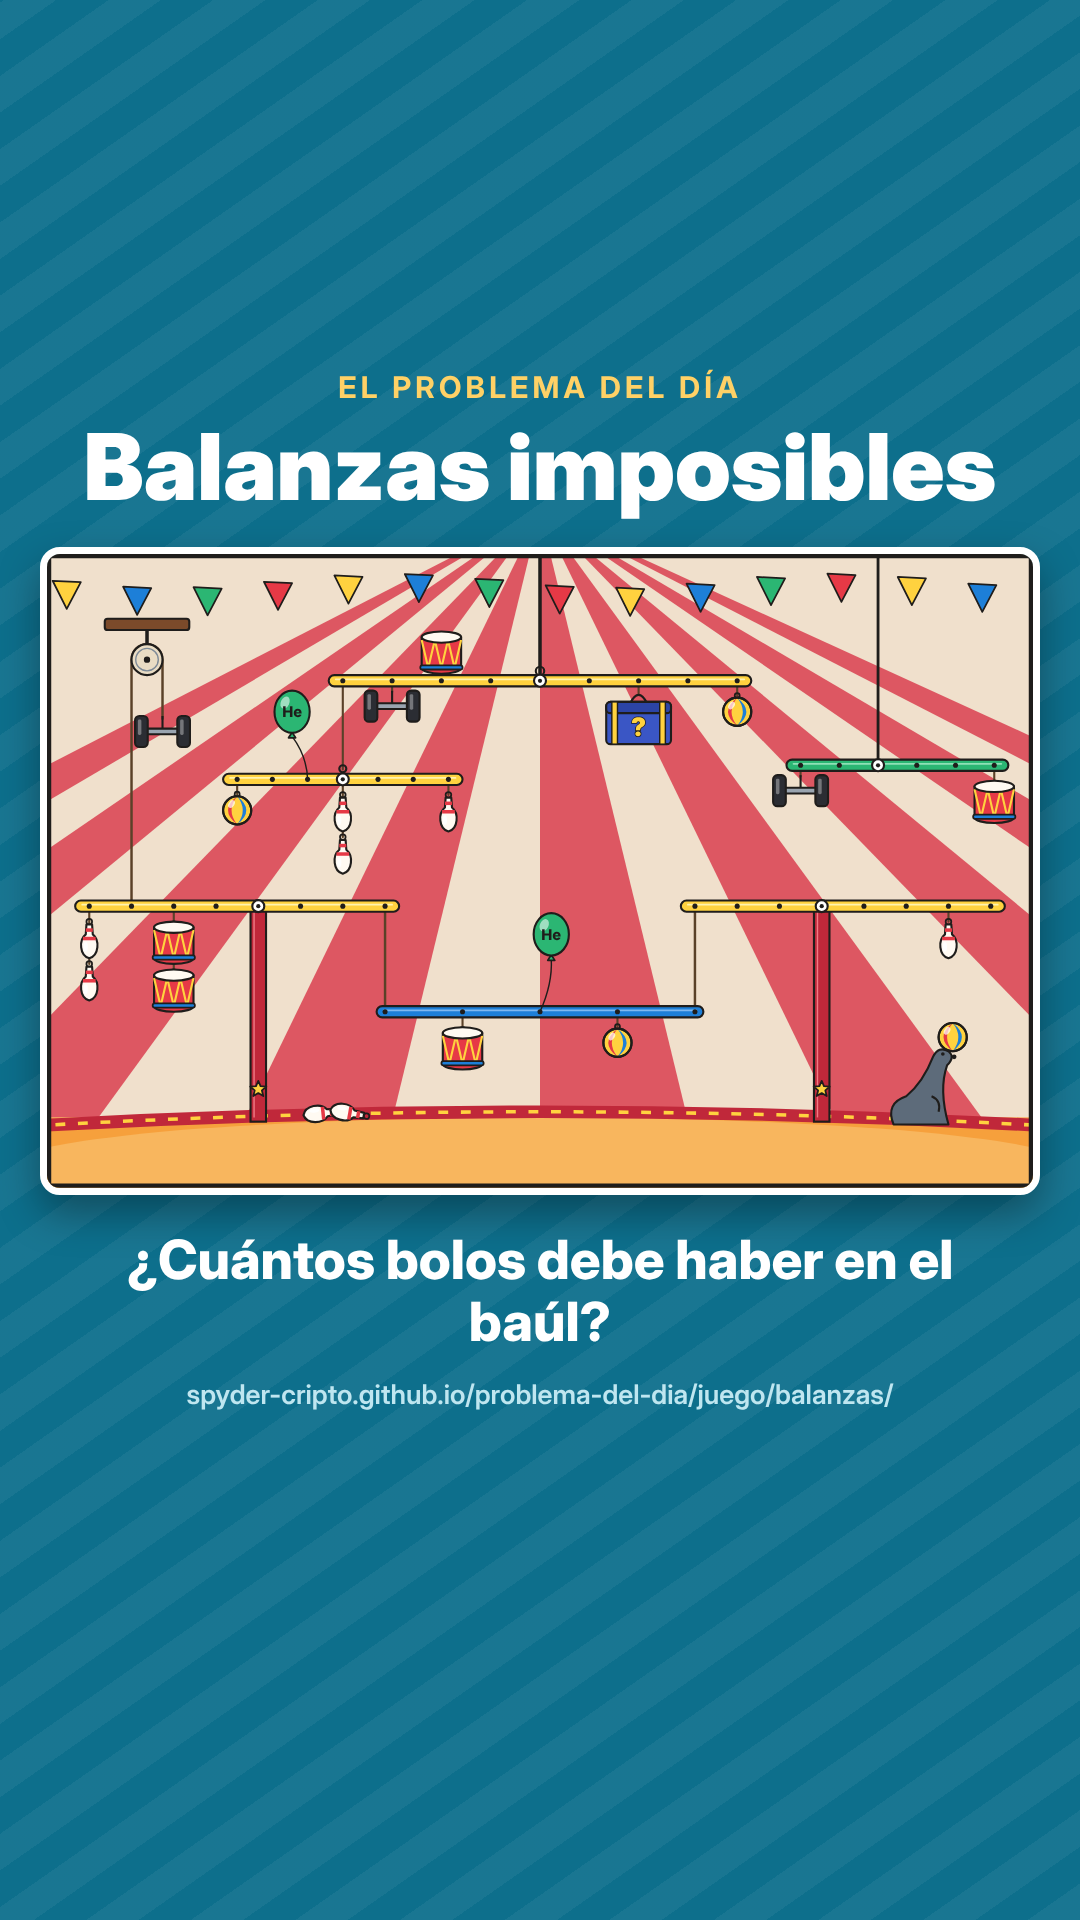
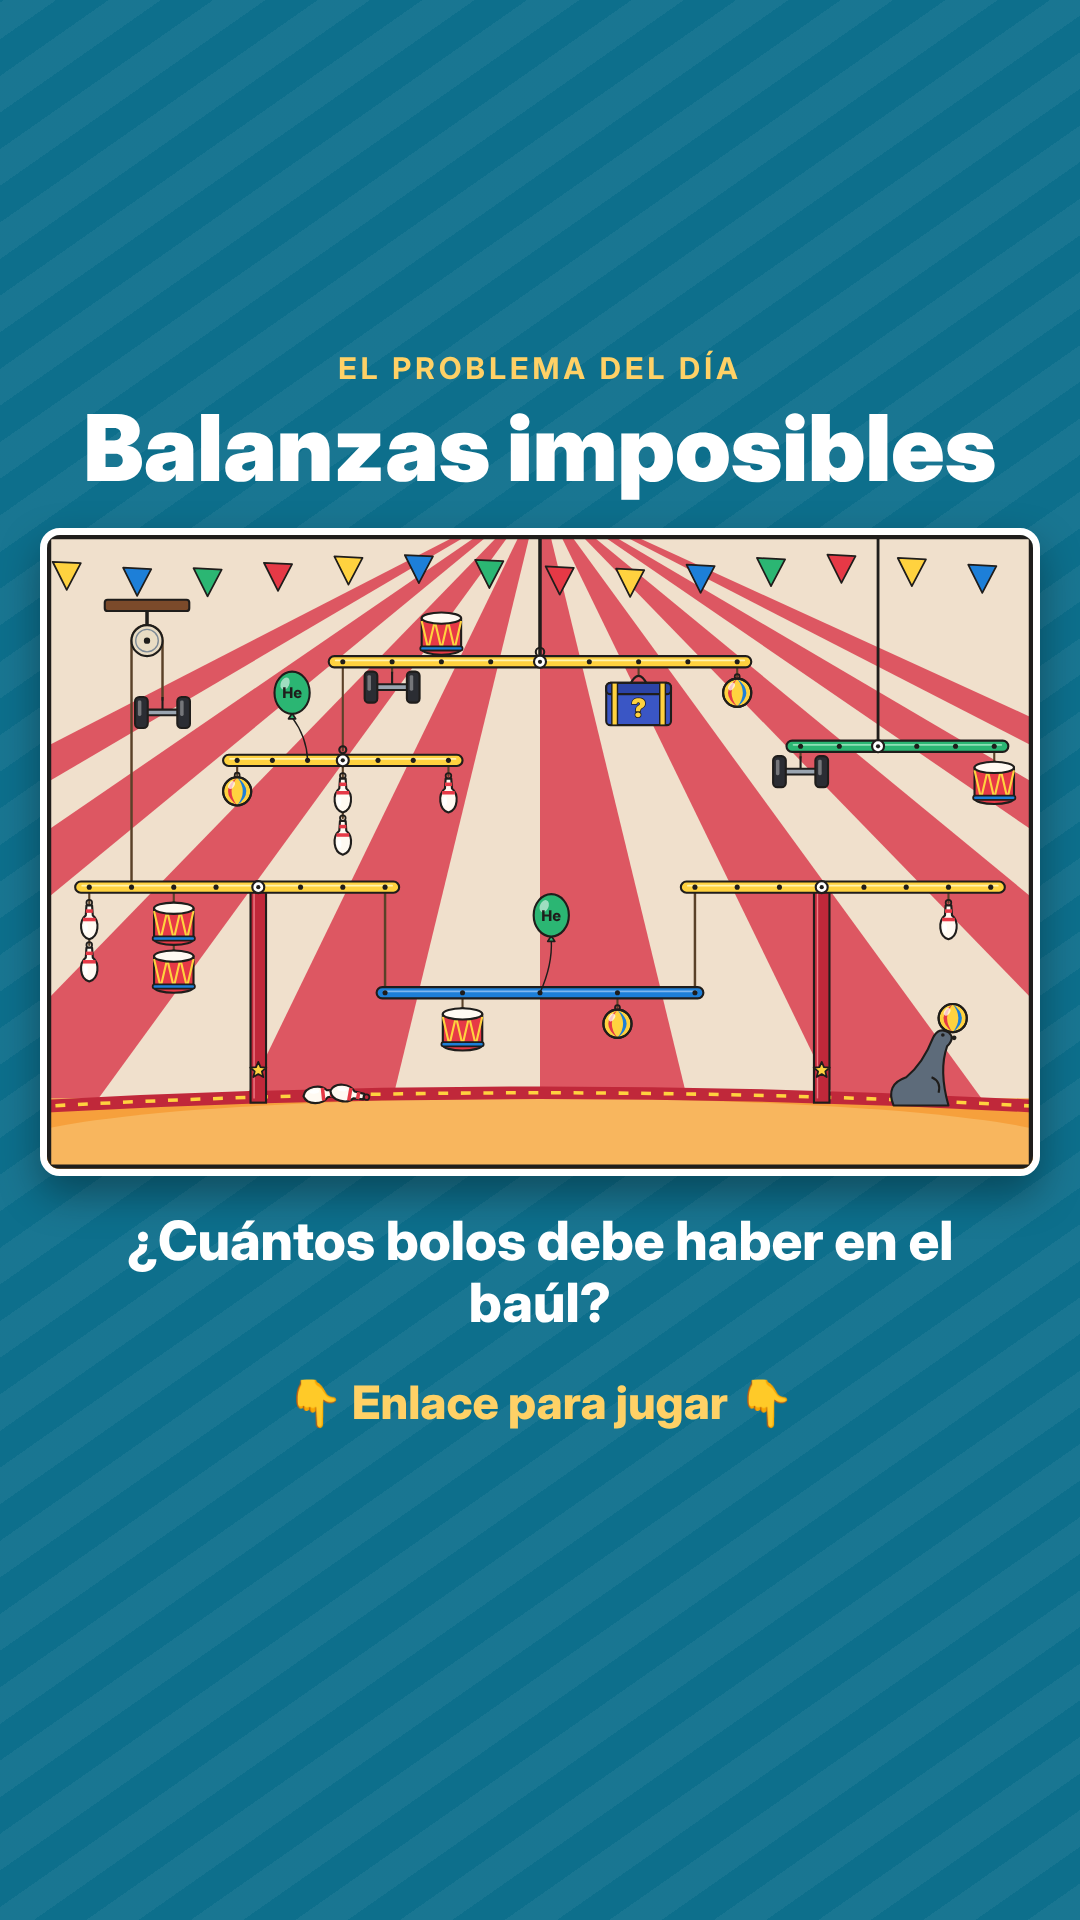
Balanzas: «👇 Enlace para jugar 👇» en las imágenes de estado
En las imágenes de estado de WhatsApp, la dirección de la página se
sustituye por «👇 Enlace para jugar 👇», que apunta al enlace que se
pega en el pie del estado.

Claude-Session: https://claude.ai/code/session_01Qmn6pdRRGg8QeofJyDE3YF

Changed region(s): [[0.0306, 0.1875, 0.9778, 0.75]]

diff --git a/MANTENIMIENTO.md b/MANTENIMIENTO.md
@@ -198,7 +198,7 @@ Colección de **10 acertijos de balanzas** de dificultad máxima, al estilo de l
 
 - **Página:** `juego/balanzas/index.html` es un único archivo con las 10 láminas en SVG dentro. **No se edita a mano:** se genera con `python3 juego/balanzas/generador/generar.py` (necesita `sympy`).
 - **Selector y enlaces:** cada lámina tiene su ancla (`#puerto`, `#taller`, `#nieve`, `#circo`, `#selva`, `#golosinas`, `#laboratorio`, `#castillo`, `#mar`, `#jardin`). Las resueltas se marcan en verde con `localStorage` (clave `balanzas-resueltos`).
-- **Páginas individuales (para compartir de una en una):** `juego/balanzas/<id>/index.html` (p. ej. `…/juego/balanzas/castillo/`) muestra **solo esa lámina**, sin selector ni enlaces a las demás (solo «← El problema del día»). Cada carpeta lleva su `preview.jpg` (tarjeta del enlace con esa lámina y su pregunta) y su `estado.png` (**1080×1920 vertical**, para estados de WhatsApp). Se generan a la vez que la colección. **Zonas libres en los estados:** WhatsApp tapa la franja de arriba (nombre y hora, ~13 %) y la de abajo (el texto o enlace del pie, ~20 %), así que todo el contenido va entre los 300 y los 1480 px; no poner nada importante fuera.
+- **Páginas individuales (para compartir de una en una):** `juego/balanzas/<id>/index.html` (p. ej. `…/juego/balanzas/castillo/`) muestra **solo esa lámina**, sin selector ni enlaces a las demás (solo «← El problema del día»). Cada carpeta lleva su `preview.jpg` (tarjeta del enlace con esa lámina y su pregunta) y su `estado.png` (**1080×1920 vertical**, para estados de WhatsApp). Se generan a la vez que la colección. **Zonas libres en los estados:** WhatsApp tapa la franja de arriba (nombre y hora, ~13 %) y la de abajo (el texto o enlace del pie, ~20 %), así que todo el contenido va entre los 300 y los 1480 px; no poner nada importante fuera. En vez de la dirección, el estado pone «👇 Enlace para jugar 👇», que apunta al enlace que se pega en el pie.
 - **Por lámina:** reglas comunes + reglas propias, comprobador de respuesta con mensajes para las trampas típicas (campo `trampas`), 2 pistas y solución paso a paso con la tabla de pesos.
 - **Mecanismos:** polea móvil, doble polea (÷4), polipasto de 4 tramos, torno de dos radios, engranajes con tambores, rampas (6/10, 3-4-5, 2/5 y dos laderas enfrentadas), palanca acodada (se mide con azulejos o tablas de valla), viga inclinada, trapecio colgado de dos vigas, cuerda compartida entre dos vigas (por arriba o anclada al fondo), polea montada en la viga y anclada al suelo, palanca con bisagra y dinamómetro, contrapeso, globos y boyas, y vigas colgantes con un objeto justo bajo el eje (no las inclina, pero pesa para la de arriba).
 
